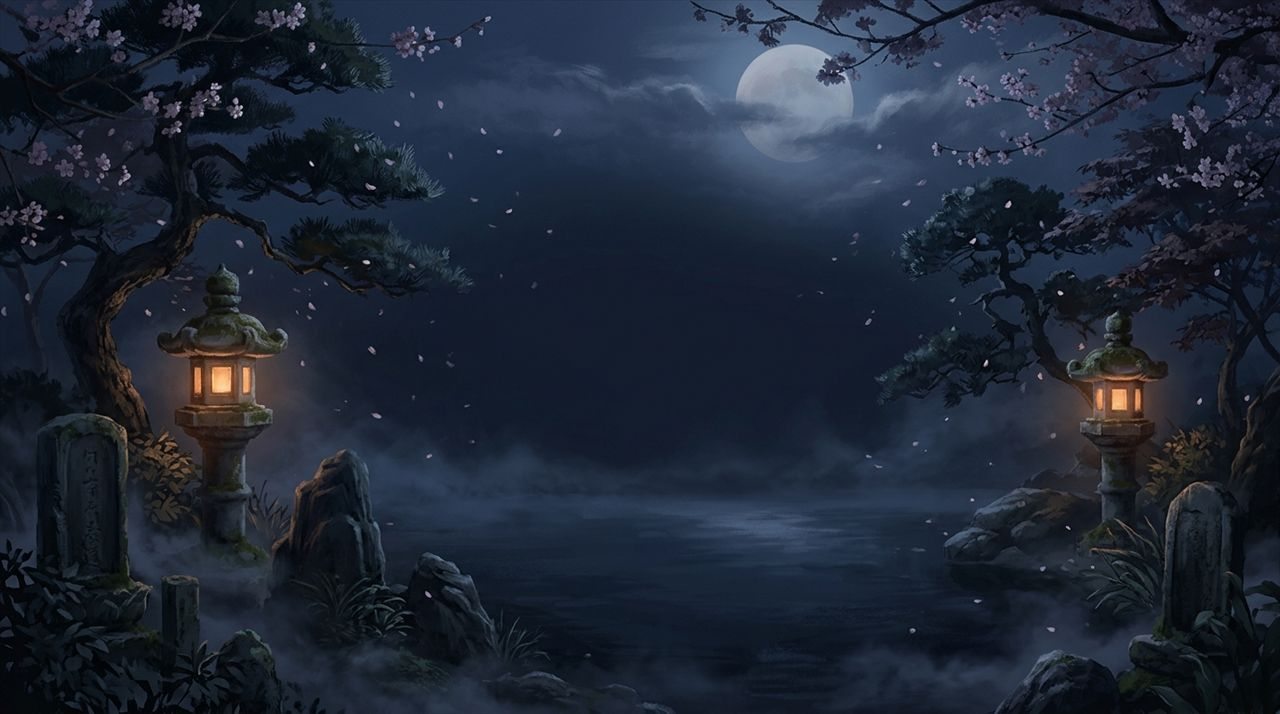
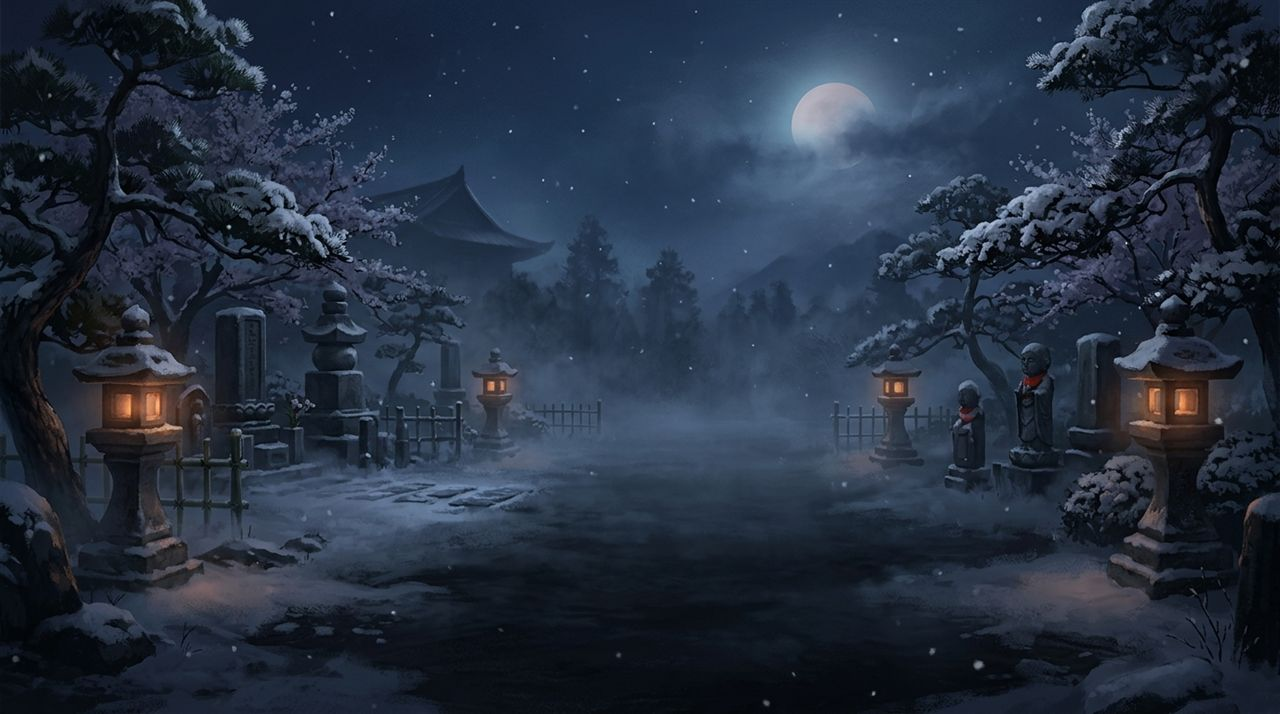
Replace cherry blossom effect with snow (canvas, hero, og image)

diff --git a/app.js b/app.js
@@ -213,19 +213,21 @@
   /* ---------- sky + confetti canvas ---------- */
   const cv = $('#sky'), ctx = cv.getContext('2d');
   let W = 0, H = 0, raf = 0;
-  const stars = [], petals = [], conf = [];
+  const stars = [], snow = [], conf = [];
   function resize() {
     const dpr = Math.min(window.devicePixelRatio || 1, 2);
     W = window.innerWidth; H = window.innerHeight;
     cv.width = W * dpr; cv.height = H * dpr;
     ctx.setTransform(dpr, 0, 0, dpr, 0, 0);
-    stars.length = 0; petals.length = 0;
+    stars.length = 0; snow.length = 0;
     for (let i = 0, n = Math.round((W * H) / 9000); i < n; i++) {
       stars.push({ x: Math.random() * W, y: Math.random() * H, r: Math.random() * 1.4 + .3, p: Math.random() * 6.28, s: Math.random() * 2 + .5 });
     }
     if (!reduceMotion) {
-      for (let i = 0; i < 22; i++) {
-        petals.push({ x: Math.random() * W, y: Math.random() * H, r: Math.random() * 4 + 3, vy: Math.random() * .6 + .3, ph: Math.random() * 6.28 });
+      const flakes = Math.min(140, Math.max(50, Math.round((W * H) / 14000)));
+      for (let i = 0; i < flakes; i++) {
+        const depth = Math.random();
+        snow.push({ x: Math.random() * W, y: Math.random() * H, r: 1 + depth * 2.8, vy: .3 + depth * .9, ph: Math.random() * 6.28, a: .35 + depth * .55 });
       }
     }
     draw(performance.now());
@@ -237,12 +239,13 @@
       ctx.fillStyle = '#fff';
       ctx.beginPath(); ctx.arc(s.x, s.y, s.r, 0, 6.283); ctx.fill();
     }
-    ctx.fillStyle = '#ffc2d9';
-    for (const p of petals) {
-      p.y += p.vy; p.x += Math.sin(ts / 900 + p.ph) * .6;
-      if (p.y > H + 10) { p.y = -10; p.x = Math.random() * W; }
-      ctx.globalAlpha = .6;
-      ctx.beginPath(); ctx.ellipse(p.x, p.y, p.r, p.r * .55, p.ph + ts / 1500, 0, 6.283); ctx.fill();
+    ctx.fillStyle = '#eaf6ff';
+    for (const p of snow) {
+      p.y += p.vy; p.x += Math.sin(ts / 1200 + p.ph) * .35;
+      if (p.y > H + 6) { p.y = -6; p.x = Math.random() * W; }
+      if (p.x > W + 6) p.x = -6; else if (p.x < -6) p.x = W + 6;
+      ctx.globalAlpha = p.a;
+      ctx.beginPath(); ctx.arc(p.x, p.y, p.r, 0, 6.283); ctx.fill();
     }
     for (let i = conf.length - 1; i >= 0; i--) {
       const c = conf[i];
@@ -270,7 +273,7 @@
     if (conf.length > 400) conf.splice(0, conf.length - 400);
   }
   const BRAND_COLORS = ['#f25022', '#7fba00', '#00a4ef', '#ffb900'];
-  const PINKS = ['#ffc2d9', '#ffe0ec', '#ff9ec2'];
+  const SNOW_COLORS = ['#ffffff', '#dff3ff', '#bfe6ff'];
   window.addEventListener('resize', resize);
   document.addEventListener('visibilitychange', startLoop);
 
@@ -439,7 +442,7 @@
         lastPost = Date.now();
         msgIn.value = ''; $('#msg-count').textContent = '0';
         renderWall();
-        toast(t('noteOk')); bell(); confetti(50, PINKS);
+        toast(t('noteOk')); bell(); confetti(50, SNOW_COLORS);
         setTimeout(pollState, 1500);
       } else {
         const key = { 422: 'rejected', 429: 'fast', 409: 'dup', 400: 'empty' }[res.status] || 'tributeFail';
